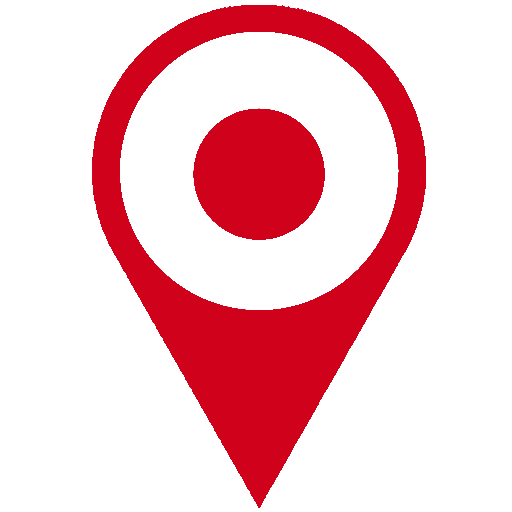
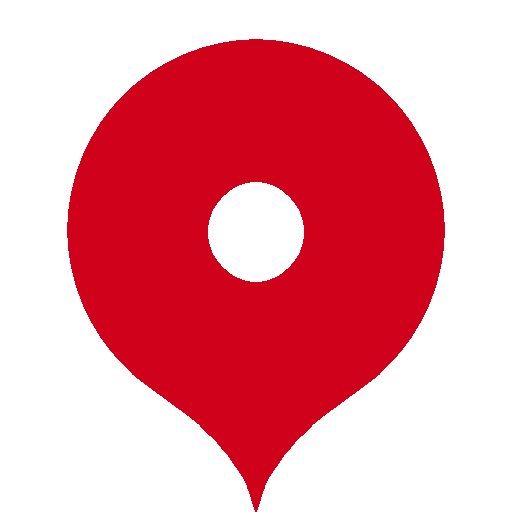
start/goal imgs, and new pointer img. Weight added to edges. changed randomSP to rerun if no path was found

diff --git a/src/main/java/com/noticemedan/mappr/viewmodel/CanvasView.java b/src/main/java/com/noticemedan/mappr/viewmodel/CanvasView.java
@@ -57,13 +57,17 @@ public class CanvasView extends JComponent {
 	private boolean showNetwork;
 	private boolean showRandomSP;
 	private Vector<Shape> randomSP;
+	private BufferedImage start;
+	private BufferedImage goal;
 
 	public CanvasView(DomainFacade domainFacade) {
 		try {
 			this.domain = domainFacade;
 			this.viewArea = viewPortCoords(new Point2D.Double(0,0), new Point2D.Double(1100, 650));
 			this.pointer = domain.getImageFromFS(Paths.get(CanvasView.class.getResource("/graphics/pointer.png").toURI())).get();
-      		OsmElementProperty.standardColor();
+      		this.start = domain.getImageFromFS(Paths.get(CanvasView.class.getResource("/graphics/start.png").toURI())).get();
+      		this.goal = domain.getImageFromFS(Paths.get(CanvasView.class.getResource("/graphics/goal.png").toURI())).get();
+			OsmElementProperty.standardColor();
 		} catch (URISyntaxException e) {
 			log.error("An error occurred", e);
 		}
@@ -90,11 +94,11 @@ public class CanvasView extends JComponent {
 		transformViewRect();
         drawCoastlines();
         drawAllElements();
-        drawPoi();
+        drawPointer();
 
 		if (this.showNetwork) drawNetwork();
 		if (this.showRandomSP) drawShortestPath(randomSP);
-		if (pointerPosition != null) drawPoi();
+		if (pointerPosition != null) drawPointer();
 
 		performanceTest();
 
@@ -114,30 +118,26 @@ public class CanvasView extends JComponent {
 		timeDraw = stopwatchDraw.elapsedTime();
     }
 
-    private Shape pointShape(Point2D point, Color color) {
-		this.g.setPaint(color);
-		double size = 0.005;
-		return new Ellipse2D.Double(point.getX() - (size/2), point.getY() - (size/2), size,size);
-	}
-
 	private void drawShortestPath(Vector<Shape> shape) {
 		if (shape.isEmpty()) return;
 		Path2D path = new GeneralPath();
 		boolean first = true;
+		Coordinate startpoint = null;
 		for(Shape s : shape) {
 			Line2D.Double line = (Line2D.Double) s;
 			if(first) {
-				this.g.fill(pointShape(new Point2D.Double(line.x1,line.y1), Color.MAGENTA));
+				startpoint = new Coordinate(line.x1,line.y1);
 				path.moveTo(line.x1, line.y1);
 				first = false;
 			}
 			else path.lineTo(line.x1,line.y1);
 		}
-		this.g.fill(pointShape(path.getCurrentPoint(),Color.decode("#ff5733")));
 		this.g.setPaint(Color.decode("#2F9862"));
 		this.g.setStroke(getMediumLevelStroke());
-		if (this.zoomLevel < 5)this.g.setStroke(new BasicStroke(Float.MIN_VALUE));
+		if (this.zoomLevel < 3)this.g.setStroke(new BasicStroke(Float.MIN_VALUE));
 		this.g.draw(path);
+		drawImage(this.start, startpoint,0.00003,true);
+		drawImage(this.goal,path.getCurrentPoint(),0.00005,false);
 	}
 
 	private void transformViewRect() {
@@ -398,17 +398,22 @@ public class CanvasView extends JComponent {
 		this.showReversedBorders = !this.showReversedBorders;
 	}
 
-	private void drawPoi() {
+	private void drawPointer() {
 		if (this.pointerPosition == null) return;
-		double size = this.viewRect.getWidth() * 0.0001;
-		double width = pointer.getWidth() * size;
-		double height = pointer.getHeight() * size;
+		drawImage(this.pointer,this.pointerPosition,0.00008,false);
+	}
+
+	private void drawImage(BufferedImage img, Point2D coordinate, double size, boolean center) {
+		double scaling = (this.zoomLevel < 100) ? this.viewRect.getWidth() * size :	0.01 * size;
+		double width = pointer.getWidth() * scaling;
+		double height = pointer.getHeight() * scaling;
 
 		AffineTransform at = new AffineTransform();
-		at.translate(this.pointerPosition.getX() - width/2,this.pointerPosition.getY()-height);
-		at.scale(size,size);
+		if (center) at.translate(coordinate.getX() - width/2,coordinate.getY()-height/2);
+		else at.translate(coordinate.getX() - width/2,coordinate.getY()-height);
+		at.scale(scaling,scaling);
 
-		this.g.drawImage(this.pointer,at,null);
+		this.g.drawImage(img,at,null);
 	}
 
 	public void setPointerPosition(Point2D p) {

diff --git a/src/main/java/com/noticemedan/mappr/model/pathfinding/PathEdge.java b/src/main/java/com/noticemedan/mappr/model/pathfinding/PathEdge.java
@@ -1,5 +1,6 @@
 package com.noticemedan.mappr.model.pathfinding;
 
+import com.noticemedan.mappr.model.util.Coordinate;
 import io.vavr.collection.Set;
 import lombok.Data;
 
@@ -21,9 +22,13 @@ public class PathEdge {
 	}
 
 	private double computeWeight(PathNode v, PathNode w) {
-		double deltaLon = w.getLon() - v.getLon();
-		double deltaLat = w.getLat() - v.getLat();
-		return Math.sqrt(Math.pow(deltaLon, 2) + Math.pow(deltaLat, 2));
+		double x1 = v.getLon();
+		double x2 = w.getLon();
+		double y1 = Coordinate.canvasLatToLat(v.getLat());
+		double y2 = Coordinate.canvasLatToLat(w.getLat());
+		Coordinate a = new Coordinate(x1,y1);
+		Coordinate b = new Coordinate(x2,y2);
+		return Coordinate.haversineDistance(a,b,6378);
 	}
 
 	public Shape toShape() {

diff --git a/src/main/java/com/noticemedan/mappr/model/service/ShortestPathService.java b/src/main/java/com/noticemedan/mappr/model/service/ShortestPathService.java
@@ -73,7 +73,12 @@ public class ShortestPathService {
 		log.info("startNode: " + from.toString());
 		log.info("endNode: " + to.toString());
 		log.info("Travel by: " + type);
-		if (!this.dijkstra.pathExists(to)) log.info("There exists NO path");
+		log.info("Distance: " + getPathDistance(new Coordinate(from.getLon(),from.getLat()),new Coordinate(to.getLon(),to.getLat()),type) + "km");
+		if (!this.dijkstra.pathExists(to)) {
+			log.info("There exists NO path");
+			log.info("..............................");
+			randomSP = getRandomSP(type);
+		}
 		else log.info("There exists a path from startNode to endNode");
 		log.info("..............................");
 		return randomSP;

diff --git a/src/main/java/com/noticemedan/mappr/model/DomainFacade.java b/src/main/java/com/noticemedan/mappr/model/DomainFacade.java
@@ -127,6 +127,12 @@ public class DomainFacade {
 	/* SECTION END: SHORTEST PATH */
 
 	/* SECTION START: IMAGE DAO */
+
+	/**
+	 * Derive a BufferedImage from a given filepath
+	 * @param input path to file
+	 * @return BufferedImage if file exists
+	 */
 	public Option<BufferedImage> getImageFromFS(Path input) {
 		ImageDao dao = new ImageDao();
 		return Try.of(() -> dao.read(input))
